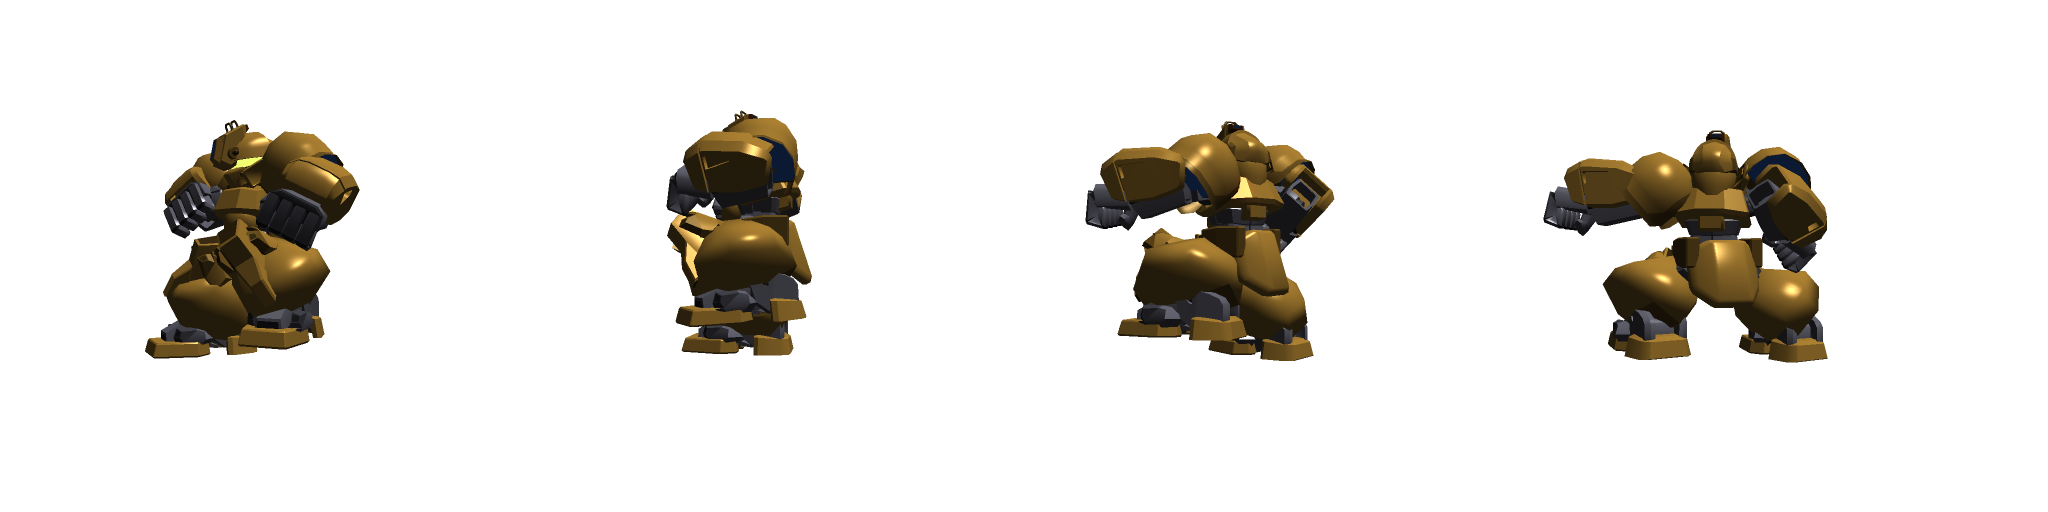
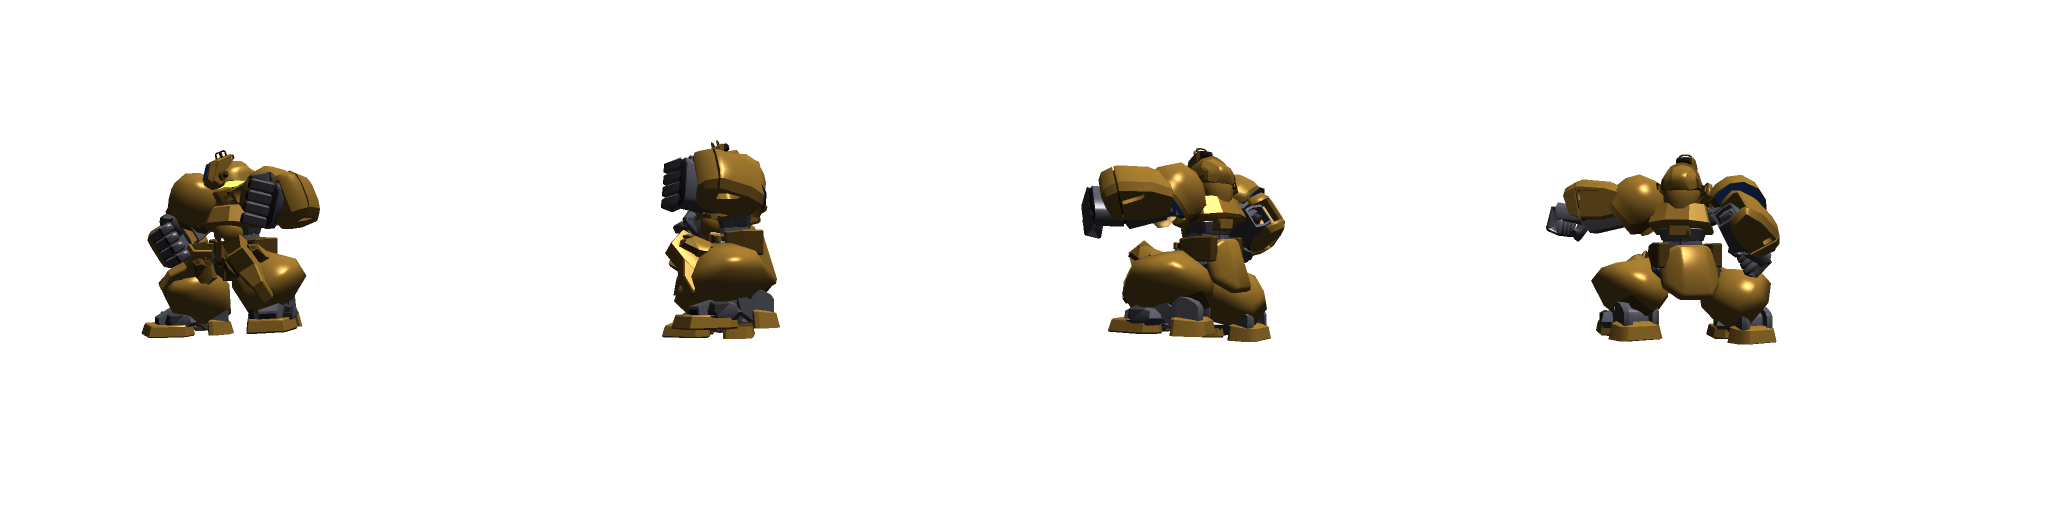
ネオランドーザのパンチアニメーションを改良した

diff --git a/src/game-object/armdozer/neo-landozer/animation/straight-punch.js b/src/game-object/armdozer/neo-landozer/animation/straight-punch.js
@@ -13,10 +13,10 @@ export function straightPunch(model: NeoLandozerModel): Animate {
     model.animation.frame = 0;
   }).chain(
     tween(model.animation, t => t
-      .to({frame: 1}, 250)
+      .to({frame: 1}, 300)
     )
   ).chain(
-    delay(300)
+    delay(500)
   ).chain(
     process(() => {
       model.animation.type = 'SP_ATTACK';
@@ -24,10 +24,10 @@ export function straightPunch(model: NeoLandozerModel): Animate {
     })
   ).chain(
     tween(model.animation, t => t
-      .to({frame: 1}, 250)
+      .to({frame: 1}, 150)
     )
   ).chain(
-    delay(100)
+    delay(200)
   ).chain(
     process(() => {
       model.animation.type = 'SP_TO_STAND';

diff --git a/src/game-object/armdozer/neo-landozer/mesh/sp-to-stand.js b/src/game-object/armdozer/neo-landozer/mesh/sp-to-stand.js
@@ -6,8 +6,8 @@ import {TEXTURE_IDS} from "../../../../resource/texture";
 import {HorizontalAnimationMesh} from "../../mesh/horizontal-animation-mesh";
 
 export const MAX_ANIMATION = 8;
-export const MESH_WIDTH = 600;
-export const MESH_HEIGHT = 600;
+export const MESH_WIDTH = 750;
+export const MESH_HEIGHT = 750;
 
 /** ネオラインドーザ ストレートパンチチャージ */
 export function neoLandozerSPToStand(resources: Resources): ArmdozerMesh {

diff --git a/src/game-object/armdozer/neo-landozer/mesh/sp-attack.js b/src/game-object/armdozer/neo-landozer/mesh/sp-attack.js
@@ -6,8 +6,8 @@ import {TEXTURE_IDS} from "../../../../resource/texture";
 import {HorizontalAnimationMesh} from "../../mesh/horizontal-animation-mesh";
 
 export const MAX_ANIMATION = 4;
-export const MESH_WIDTH = 600;
-export const MESH_HEIGHT = 600;
+export const MESH_WIDTH = 750;
+export const MESH_HEIGHT = 750;
 
 /** ネオラインドーザ ストレートパンチアタック */
 export function neoLandozerSPAttack(resources: Resources): ArmdozerMesh {

diff --git a/src/game-object/armdozer/neo-landozer/mesh/sp-charge.js b/src/game-object/armdozer/neo-landozer/mesh/sp-charge.js
@@ -6,8 +6,8 @@ import {TEXTURE_IDS} from "../../../../resource/texture";
 import {HorizontalAnimationMesh} from "../../mesh/horizontal-animation-mesh";
 
 export const MAX_ANIMATION = 4;
-export const MESH_WIDTH = 600;
-export const MESH_HEIGHT = 600;
+export const MESH_WIDTH = 750;
+export const MESH_HEIGHT = 750;
 
 /** ネオラインドーザ ストレートパンチチャージ */
 export function neoLandozerSPCharge(resources: Resources): ArmdozerMesh {

diff --git a/src/index.js b/src/index.js
@@ -31,6 +31,7 @@ async function main() {
     playerId: 'test01',
     armdozer: ArmDozers.find(v => v.id === ArmDozerIdList.SHIN_BRAVER) || ArmDozers[0]
   };
+  player.armdozer.speed = 500;// TODO アニメ開発が終わったら戻す
   const npc: NPC = NeoLandozerNpc;
   const battleRoom = new OfflineBattleRoom(player, npc);
   const initialState = await battleRoom.start();
